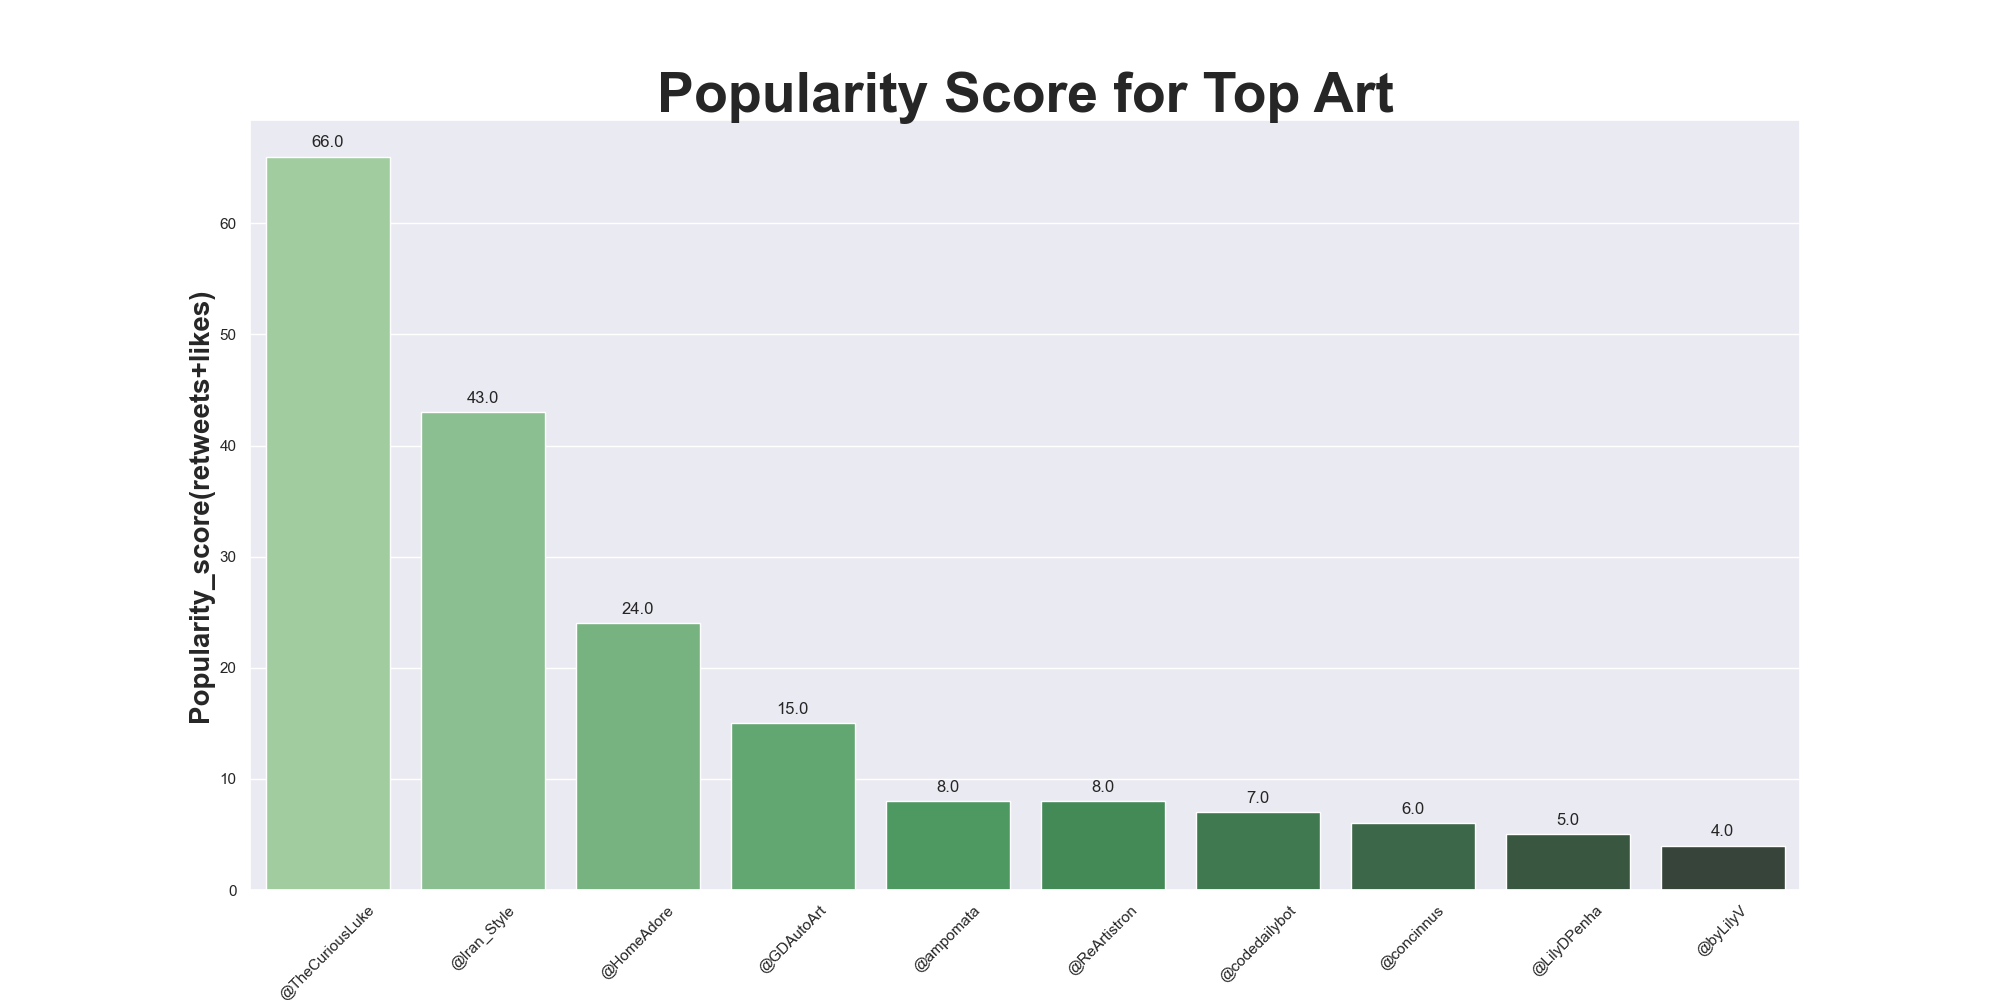
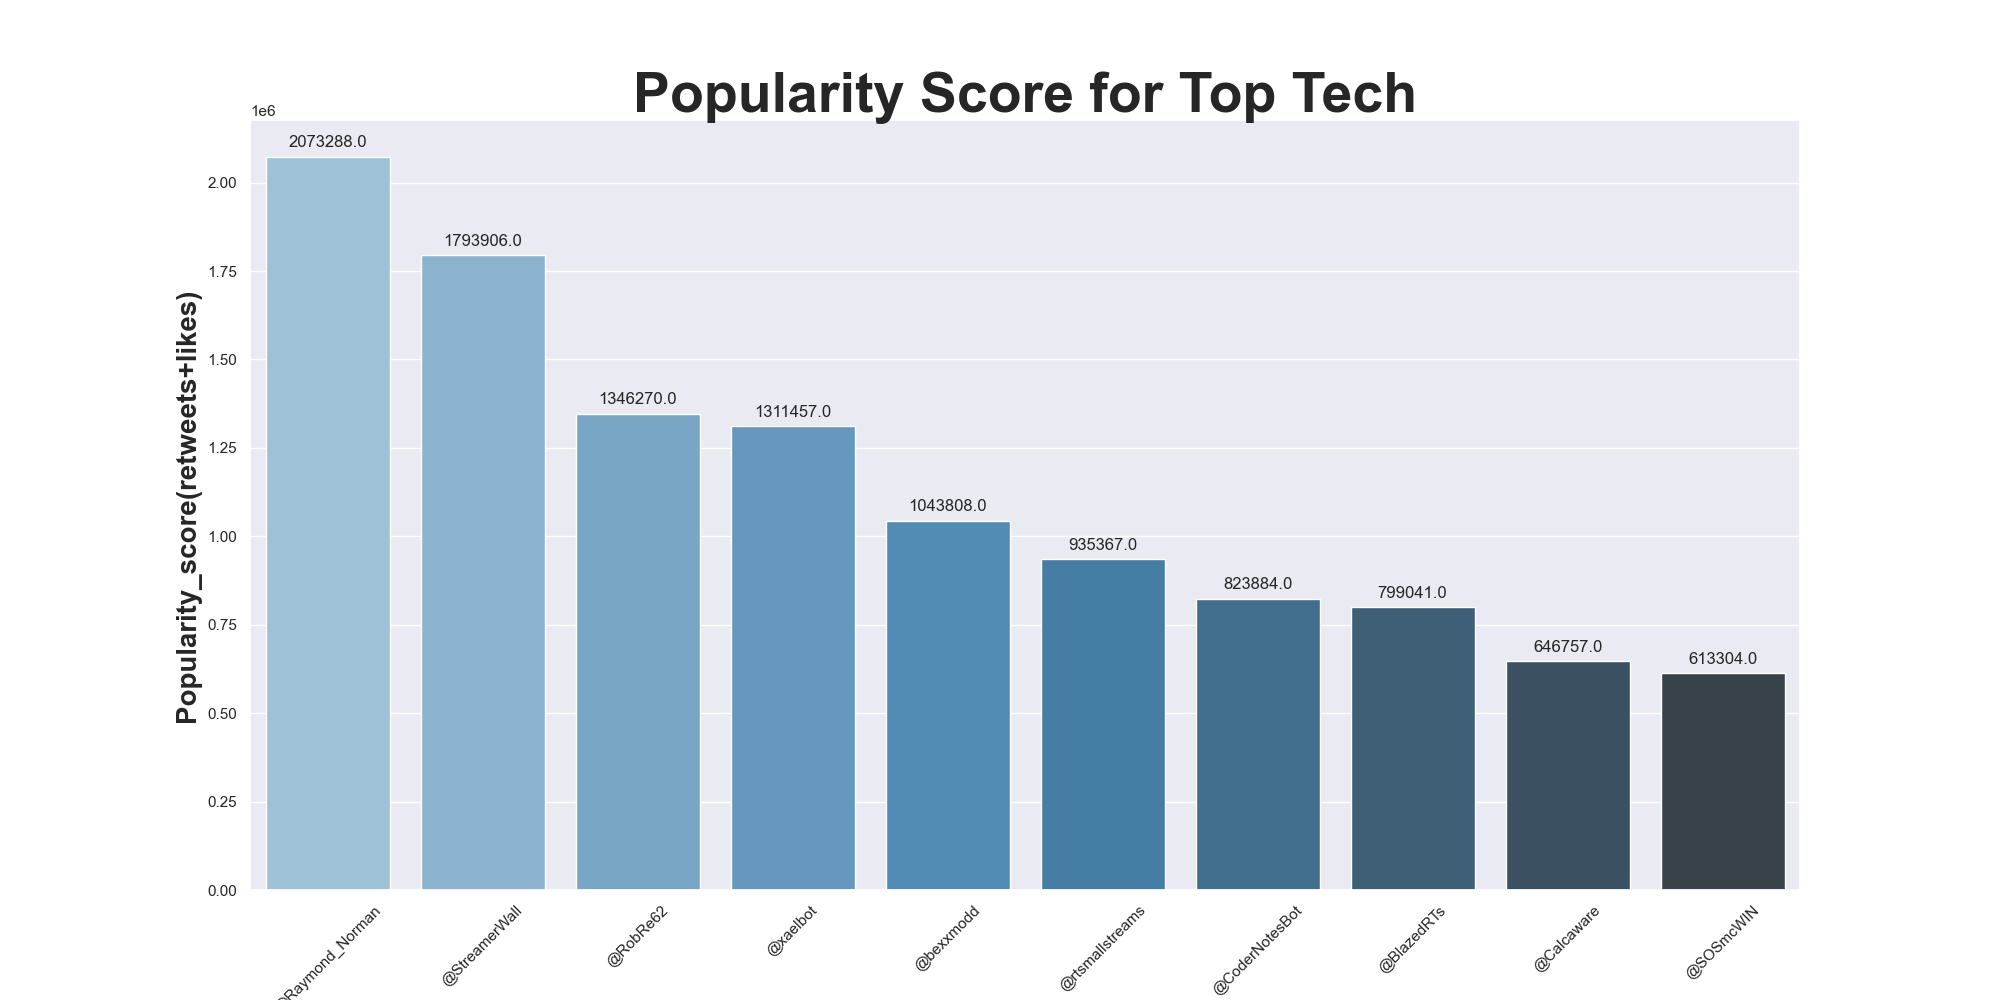
v7

diff --git a/bb.py b/bb.py
@@ -1,5 +1,11 @@
 import tweepy
 import pandas as pd
+import os
+import glob
+import seaborn as sns
+from matplotlib import pyplot as plt
+
+os.chdir("C:\\Users\\Andrew\\Desktop\\elaborato\\PROGETTO_MCOLLAB\\file_csv")
 
 consumer_key='JWdPxO0jPLt2WWlKMXcC2YyHB'
 consumer_secret='ZkkealjKf7tLsjbWrAJdn72CHqw4YqsQM9IaGZJsp4fNUnIMkC'
@@ -21,38 +27,38 @@ Category = {
         'Fashion' : '#Fashion OR #Luxury OR #Styling OR #Shoes OR #Beauty OR #Accessories OR #Jewelry',
         }
 
-def data_org(path_):
+def data_org(path_,cat):
         data = {
                 'Screen_name': [],
                 'Name': [],
                 'Number_of_Followers': [],
-                #'Number of tweets' : [],
                 'Location' : [],
-                #'reach_score' : [],
-                #'popularity_score' : [],
-                #'relevance_score' : [],
                 'Url':[],
                 'description':[],
                 'profile_image':[],
+                'Category':[],
+                'reach_score' : [],
+                'popularity_score' : []
+                #'relevance_score' : []
         }	
 
         df_marks = pd.DataFrame(data)
         for tweet in tweets:
                 reach_score = tweet.user.followers_count - tweet.user.friends_count
-                popularity_score = tweet.retweet_count + tweet.favorite_count
+                popularity_score = tweet.user.statuses_count + tweet.user.favourites_count
                 #relevance_score = tweet.reply_count + tweet.quote_count
-                if reach_score > 6000 and reach_score > 0 and  popularity_score > 0: #tweet.user.verified is True:
+                if reach_score > 1000:
                         new_row = {
                                 'Screen_name':"@" + tweet.user.screen_name,
                                 'Name':tweet.user.name,
                                 'Number_of_Followers':tweet.user.followers_count,
-                                #'Number of tweets':tweet.user.statuses_count,
                                 'Location':tweet.user.location,
                                 'Url':tweet.user.url,
                                 'description':tweet.user.description,
                                 'profile_image':tweet.user.profile_image_url_https,
-                                #'reach_score':reach_score,
-                                #'popularity_score':popularity_score,
+                                'Category':cat,
+                                'reach_score':reach_score,
+                                'popularity_score':popularity_score,
                                 #'relevance_score':relevance_score,
                                 }
                         df_marks = df_marks.append(new_row, ignore_index=True)
@@ -64,12 +70,95 @@ def data_org(path_):
         print(df_marks.sort_values(by=['Number_of_Followers'], ascending = False))
         print('-' * 200)
 
-        df_marks.to_csv(path_)
+
+        data_visual(df_marks, cat)
+
+
+        print("Vuoi salvarlo in un fle csv? si/no")
+        ans = input("si o no")
+        if ans == "si":
+                df_marks.to_csv(path_)
+        else:
+                print("Dataframe non salvata")
+
+def data_visual(influencer_df, cat_):
+        #bar plot - popularity score
+        plt.figure(figsize=(20,10)) #customizing the size of the plot
+        sns.set(style="darkgrid") #customizing the style of the plot
+        #visualizing the data using bar plot
+        ax = sns.barplot(x='Screen_name', y='popularity_score', palette="Blues_d",
+                        data=influencer_df.sort_values(by='popularity_score', ascending=False)[0:10]
+                        )
+        #getting the values of the data
+        for p in ax.patches:
+                ax.annotate(format(p.get_height()), (p.get_x() + p.get_width() / 2.,
+                p.get_height()), ha = 'center', va = 'center', 
+                xytext = (0, 10), textcoords = 'offset points')
+
+
+        #setting the parameters for the title, x and y labels of the plot
+        ax.set_title("Popularity Score for Top " + cat_ , size=40, weight='bold')
+        ax.set_xlabel("Twitter Screen Names", size=20, weight='bold')
+        ax.set_ylabel("Popularity_score(retweets+likes)", size=20, weight='bold')
+        #changing the rotation of the x axis tick labels 
+        for item in ax.get_xticklabels():
+                item.set_rotation(45)
+                
+        plt.savefig('popular.png') #saving the figure
+        plt.show()
+
+        #bar plot - reach score
+        plt.figure(figsize=(20,10))
+        sns.set(style="darkgrid")
+        ax = sns.barplot(x='Screen_name', y='reach_score', palette="Blues_d",
+                        data=influencer_df.sort_values(by='reach_score', ascending=False)[0:10]
+                        )
+        for p in ax.patches:
+                ax.annotate(format(p.get_height()), (p.get_x() + p.get_width() / 2.,
+                p.get_height()), ha = 'center', va = 'center', 
+                xytext = (0, 10), textcoords = 'offset points')
+
+
+        ax.set_title("Reach Score for Top " + cat_ , size=40, weight='bold')
+        ax.set_xlabel("Twitter Screen Names", size=20, weight='bold')
+        ax.set_ylabel("Reach Score(Followers-Following)", size=20, weight='bold')
+        for item in ax.get_xticklabels():
+                item.set_rotation(45)
+                
+        plt.savefig('reach.png') 
+        plt.show()
+
 
 print("Scelte: Art, Food, Music, Sport, Tech, Fashion")
 scelta = input("scelta:")
 for t, q in Category.items():
         if scelta == t:
-                tweets = tweepy.Cursor(api.search,q).items(50)
-                path_ = "C:\\Users\\Jana\\Desktop\\prog\\PROGETTO_MCOLLAB\\file_csv\\"+"INF_"+scelta+".csv"
-                data_org(path_)
+                tweets = tweepy.Cursor(api.search,q).items(500)
+                path_ = "C:\\Users\\Andrew\\Desktop\\elaborato\\PROGETTO_MCOLLAB\\file_csv\\"+"INF_"+scelta+".csv"
+                data_org(path_,scelta)
+
+
+
+
+
+def combinecsv():
+        extension = 'csv'
+        all_filenames = [i for i in glob.glob('*.{}'.format(extension))]
+
+        #combine all files in the list
+        combined_csv = pd.concat([pd.read_csv(f) for f in all_filenames ])
+        #duplicate eliminate
+        combined_csv.drop_duplicates(subset = ['Screen_name'], keep='last', inplace = True)
+        #export to csv
+        combined_csv.to_csv( "AllInfluencer.csv", index=False, encoding='utf-8-sig')
+
+print("Combine csv?: ")
+sc = input("Inserisci si se vuoi")
+if sc == "si":
+        combinecsv()
+
+
+def main():
+        print("1. Data visual")
+        print("2. save to csv file")
+        print("3. End")

diff --git a/Findinfluencer.py b/Findinfluencer.py
@@ -45,9 +45,9 @@ def data_org(path_,cat):
         df_marks = pd.DataFrame(data)
         for tweet in tweets:
                 reach_score = tweet.user.followers_count - tweet.user.friends_count
-                popularity_score = tweet.retweet_count + tweet.favorite_count
+                popularity_score = tweet.user.statuses_count + tweet.user.favourites_count
                 #relevance_score = tweet.reply_count + tweet.quote_count
-                if reach_score > 6000 and popularity_score > 0: #tweet.user.verified is True:
+                if reach_score > 1000:
                         new_row = {
                                 'Screen_name':"@" + tweet.user.screen_name,
                                 'Name':tweet.user.name,
@@ -63,30 +63,50 @@ def data_org(path_,cat):
                                 }
                         df_marks = df_marks.append(new_row, ignore_index=True)
 
-        df_marks.drop_duplicates(subset = ['Screen_name', 'Number_of_Followers'], keep='last', inplace = True)
+        df_marks.drop_duplicates(subset = ['Screen_name', 'Name'], keep='last', inplace = True)
 
         print('Lista degli "Influencer" di Twitter')
         print('-' * 200)
-        print(df_marks.sort_values(by=['Number_of_Followers'], ascending = False))
+        print(df_marks.sort_values(by=['reach_score'], ascending = False))
         print('-' * 200)
 
 
         data_visual(df_marks, cat)
 
 
-        print("Vuoi salvarlo in un fle csv? si/no")
-        ans = input("si o no")
+        ans = input("Vuoi salvarlo in un fle csv? si/no: ")
         if ans == "si":
                 df_marks.to_csv(path_)
         else:
                 print("Dataframe non salvata")
 
 def data_visual(influencer_df, cat_):
+        #bar plot - reach score
+        plt.figure(figsize=(20,10))
+        sns.set(style="darkgrid")
+        ax = sns.barplot(x='Screen_name', y='reach_score', palette="Blues_d",
+                        data=influencer_df.sort_values(by='reach_score', ascending=False)[0:10]
+                        )
+        for p in ax.patches:
+                ax.annotate(format(p.get_height()), (p.get_x() + p.get_width() / 2.,
+                p.get_height()), ha = 'center', va = 'center', 
+                xytext = (0, 10), textcoords = 'offset points')
+
+
+        ax.set_title("Reach Score for Top " + cat_ , size=40, weight='bold')
+        ax.set_xlabel("Twitter Screen Names", size=20, weight='bold')
+        ax.set_ylabel("Reach Score(Followers-Following)", size=20, weight='bold')
+        for item in ax.get_xticklabels():
+                item.set_rotation(45)
+                
+        plt.savefig('reach.png') 
+        plt.show()
+
         #bar plot - popularity score
         plt.figure(figsize=(20,10)) #customizing the size of the plot
         sns.set(style="darkgrid") #customizing the style of the plot
         #visualizing the data using bar plot
-        ax = sns.barplot(x='Screen_name', y='popularity_score', palette="Greens_d",
+        ax = sns.barplot(x='Screen_name', y='popularity_score', palette="Blues_d",
                         data=influencer_df.sort_values(by='popularity_score', ascending=False)[0:10]
                         )
         #getting the values of the data
@@ -107,26 +127,7 @@ def data_visual(influencer_df, cat_):
         plt.savefig('popular.png') #saving the figure
         plt.show()
 
-        #bar plot - reach score
-        plt.figure(figsize=(20,10))
-        sns.set(style="darkgrid")
-        ax = sns.barplot(x='Screen_name', y='reach_score', palette="Greens_d",
-                        data=influencer_df.sort_values(by='reach_score', ascending=False)[0:10]
-                        )
-        for p in ax.patches:
-                ax.annotate(format(p.get_height()), (p.get_x() + p.get_width() / 2.,
-                p.get_height()), ha = 'center', va = 'center', 
-                xytext = (0, 10), textcoords = 'offset points')
 
-
-        ax.set_title("Reach Score for Top " + cat_ , size=40, weight='bold')
-        ax.set_xlabel("Twitter Screen Names", size=20, weight='bold')
-        ax.set_ylabel("Reach Score(Followers-Following)", size=20, weight='bold')
-        for item in ax.get_xticklabels():
-                item.set_rotation(45)
-                
-        plt.savefig('reach.png') 
-        plt.show()
 
 
 print("Scelte: Art, Food, Music, Sport, Tech, Fashion")
@@ -136,9 +137,6 @@ for t, q in Category.items():
                 tweets = tweepy.Cursor(api.search,q).items(500)
                 path_ = "C:\\Users\\Andrew\\Desktop\\elaborato\\PROGETTO_MCOLLAB\\file_csv\\"+"INF_"+scelta+".csv"
                 data_org(path_,scelta)
-
-
-
 
 
 def combinecsv():
@@ -152,7 +150,7 @@ def combinecsv():
         #export to csv
         combined_csv.to_csv( "AllInfluencer.csv", index=False, encoding='utf-8-sig')
 
-print("Combine csv?: ")
+print("Vuoi Unire tutti Unire tutti i csv File")
 sc = input("Inserisci si se vuoi")
 if sc == "si":
         combinecsv()

diff --git a/backuprogram.py b/backuprogram.py
@@ -45,6 +45,7 @@ def data_org(path_,cat):
         for tweet in tweets:
                 reach_score = tweet.user.followers_count - tweet.user.friends_count
                 popularity_score = tweet.retweet_count + tweet.favorite_count
+                              popularity_score = tweet.user.statuses_count + tweet.user.favourites_count
                 #relevance_score = tweet.reply_count + tweet.quote_count
                 if reach_score > 6000 and reach_score > 0 and  popularity_score > 0: #tweet.user.verified is True:
                         new_row = {
